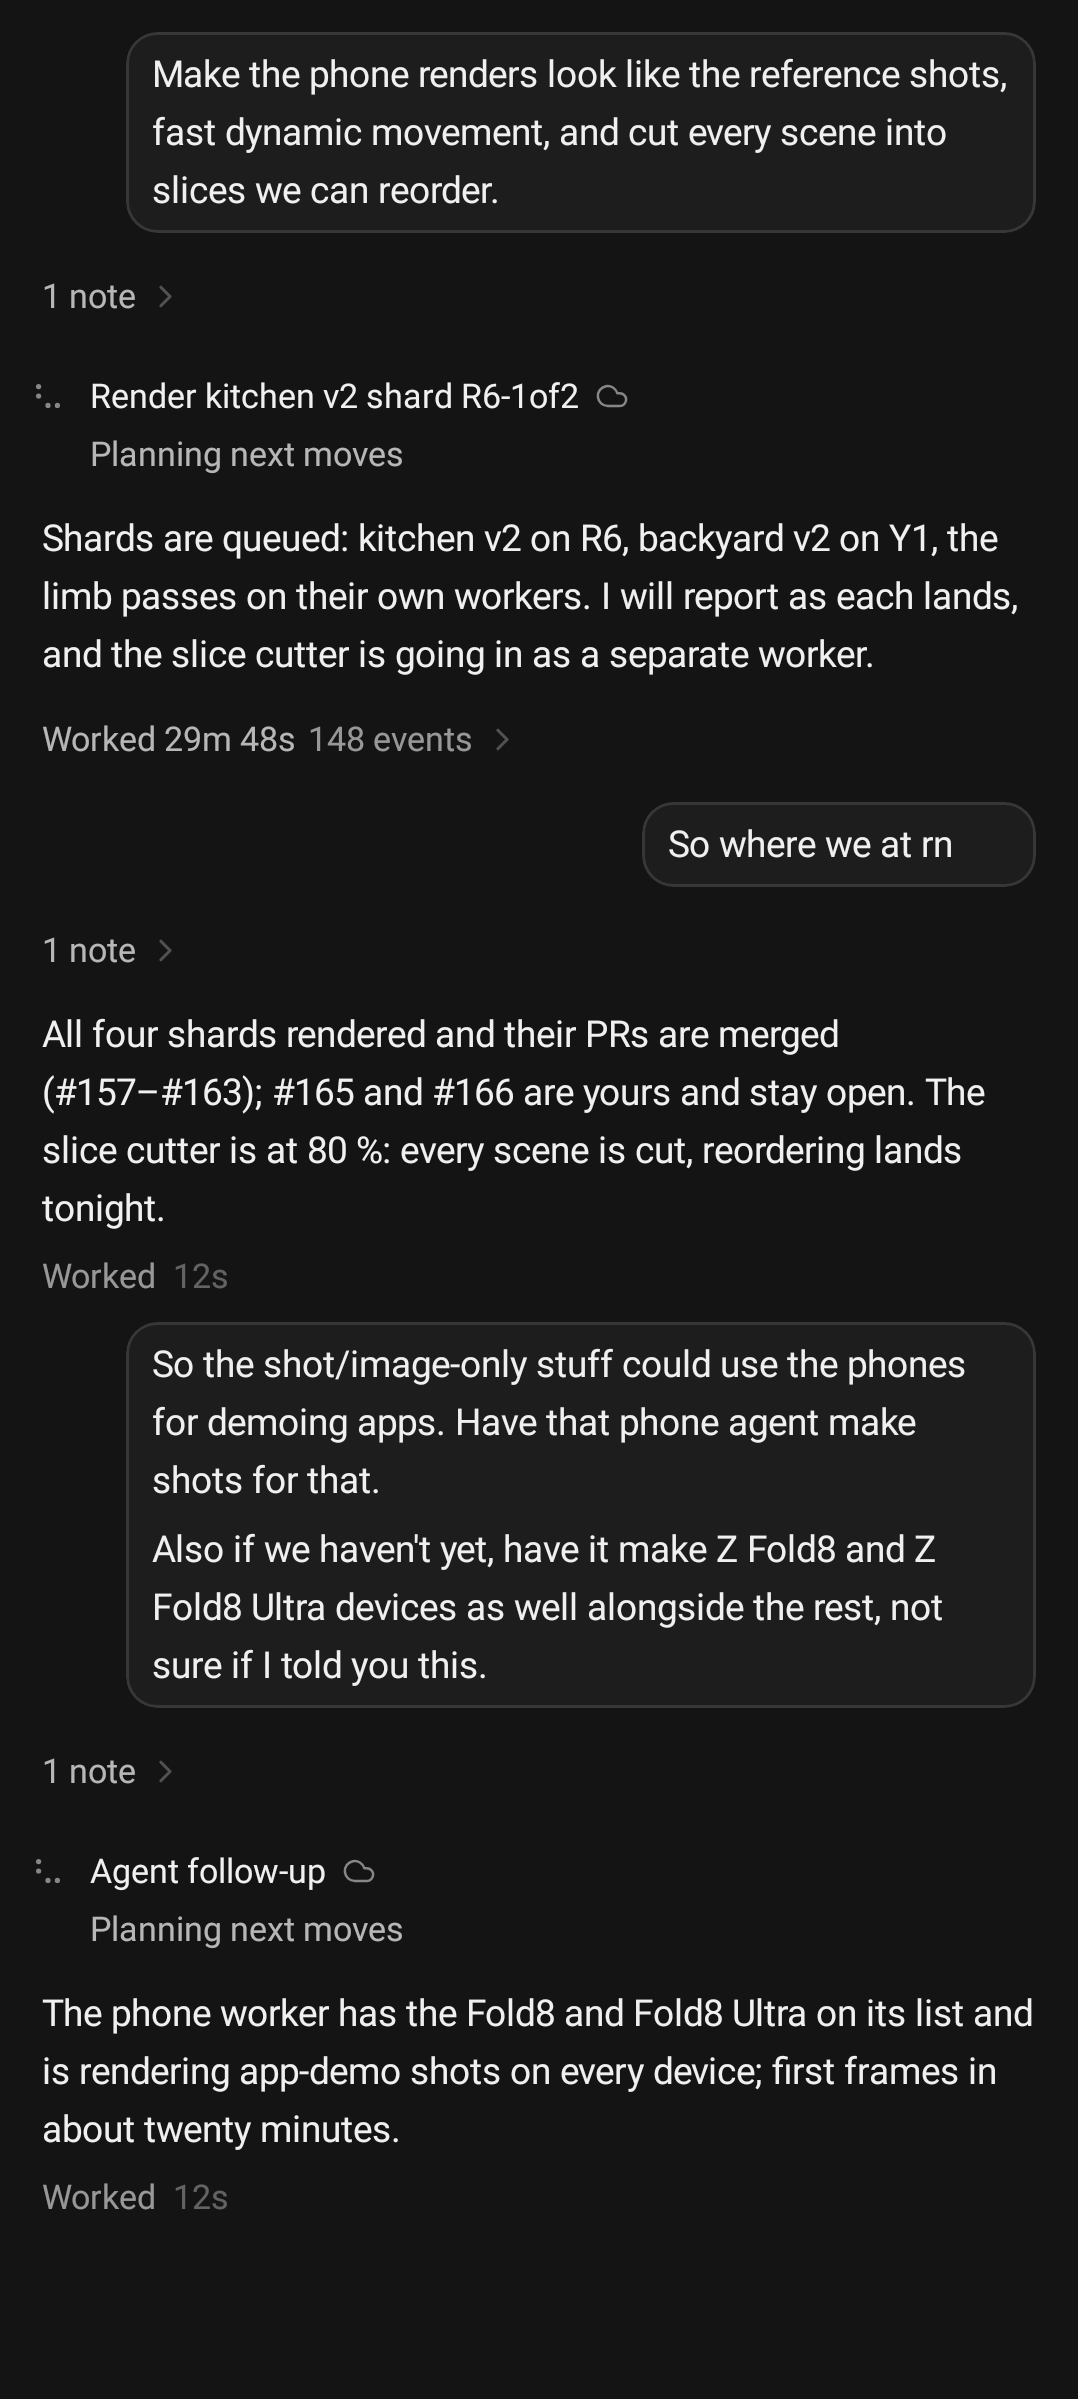
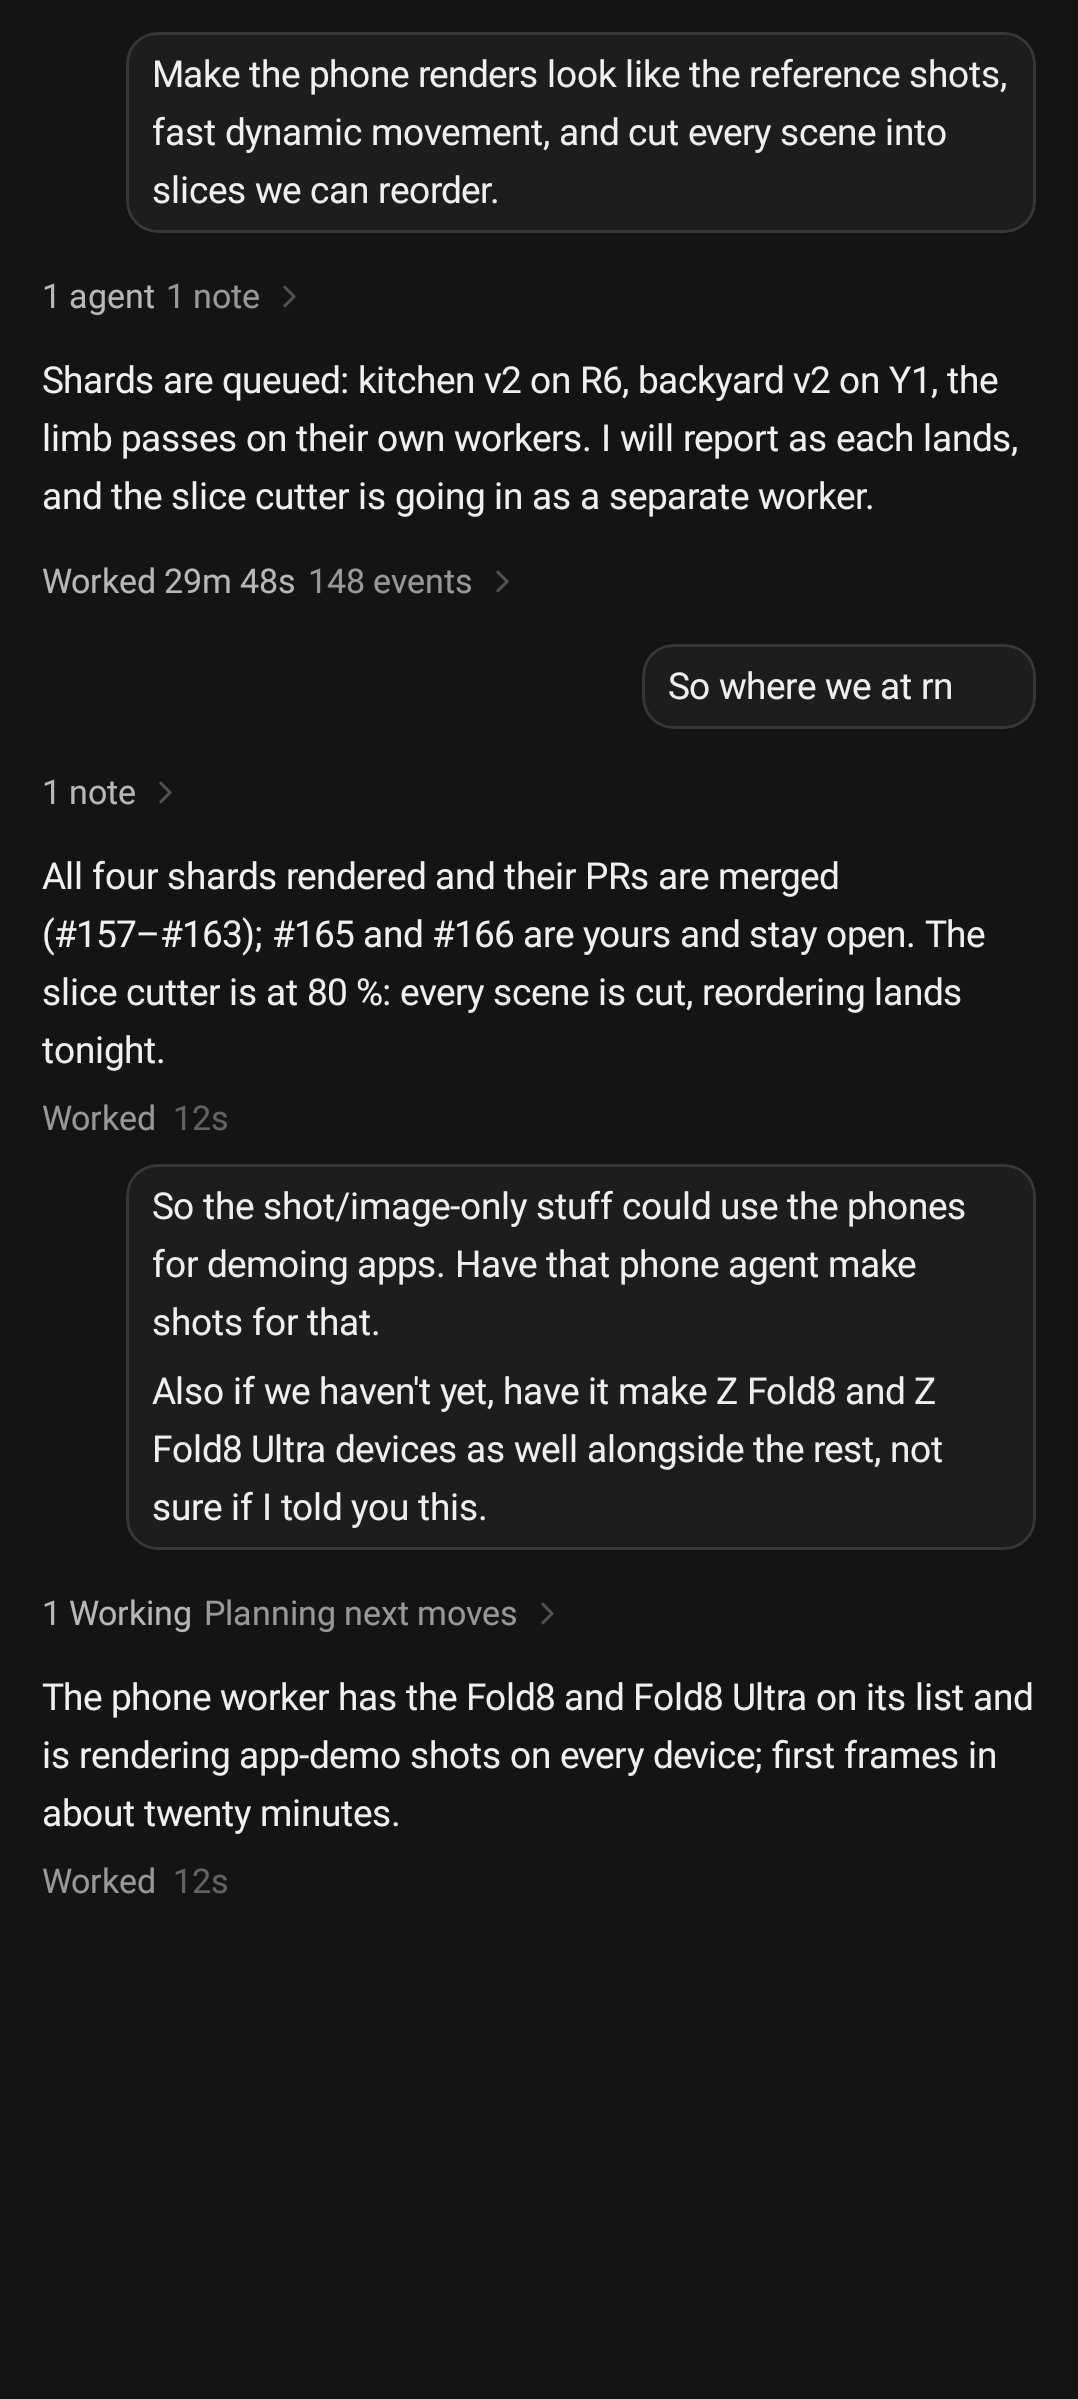
Give the single-stretch screenshot the app's subagent index
Without it every row about a worker read as its newest, so the stretch the
running worker was created in counted it as working alongside the one
that messaged it again. Frames 74 and 75 now show only the latter.

Changed region(s): [[0.0306, 0.3085, 0.949, 0.9254], [0.0306, 0.1234, 0.949, 0.3085], [0.949, 0.6786, 0.9796, 0.7095]]

diff --git a/app/src/test/java/com/cursorforandroid/screenshots/CoordinatorSingleStretchScreenshotTest.kt b/app/src/test/java/com/cursorforandroid/screenshots/CoordinatorSingleStretchScreenshotTest.kt
@@ -23,6 +23,7 @@ import com.cursorforandroid.domain.AgentLifecycle
 import com.cursorforandroid.domain.CoordinatorTranscript
 import com.cursorforandroid.domain.EnvType
 import com.cursorforandroid.domain.RunStatus
+import com.cursorforandroid.domain.SubagentRows
 import com.cursorforandroid.domain.TimelineItem
 import com.cursorforandroid.domain.TranscriptRow
 import com.cursorforandroid.domain.TranscriptRows
@@ -99,7 +100,10 @@ class CoordinatorSingleStretchScreenshotTest {
     private fun show(rows: List<TranscriptRow>) {
         compose.setContent {
             CursorTheme(mode = ThemeMode.Dark) {
-                CompositionLocalProvider(LocalRippleConfiguration provides null, LocalTranscriptControls provides TranscriptControls(onOpenAgent = {}, agentById = { worker.takeIf { a -> a.id == it } }, coordinatorMode = true)) {
+                CompositionLocalProvider(
+                    LocalRippleConfiguration provides null,
+                    LocalTranscriptControls provides TranscriptControls(onOpenAgent = {}, agentById = { worker.takeIf { a -> a.id == it } }, coordinatorMode = true, subagents = SubagentRows.index(rows)),
+                ) {
                     Column(
                         Modifier.fillMaxSize().background(CursorTheme.colors.canvas).padding(horizontal = 16.dp, vertical = 12.dp),
                         verticalArrangement = Arrangement.spacedBy(10.dp),
@@ -124,6 +128,9 @@ class CoordinatorSingleStretchScreenshotTest {
         show(rows)
         compose.waitUntil(10_000) { compose.onAllNodesWithText("Worked 29m 48s").fetchSemanticsNodes().isNotEmpty() }
         compose.onAllNodes(hasTestTag("event-row")).assertCountEquals(0)
+        // The worker the list holds as running was messaged again in the last stretch: that row speaks for it, and
+        // only its stretch still reads as working; the one it was created in has settled.
+        compose.onAllNodesWithText("1 Working").assertCountEquals(1)
         capture("74_coordinator_single_stretch")
     }
 
